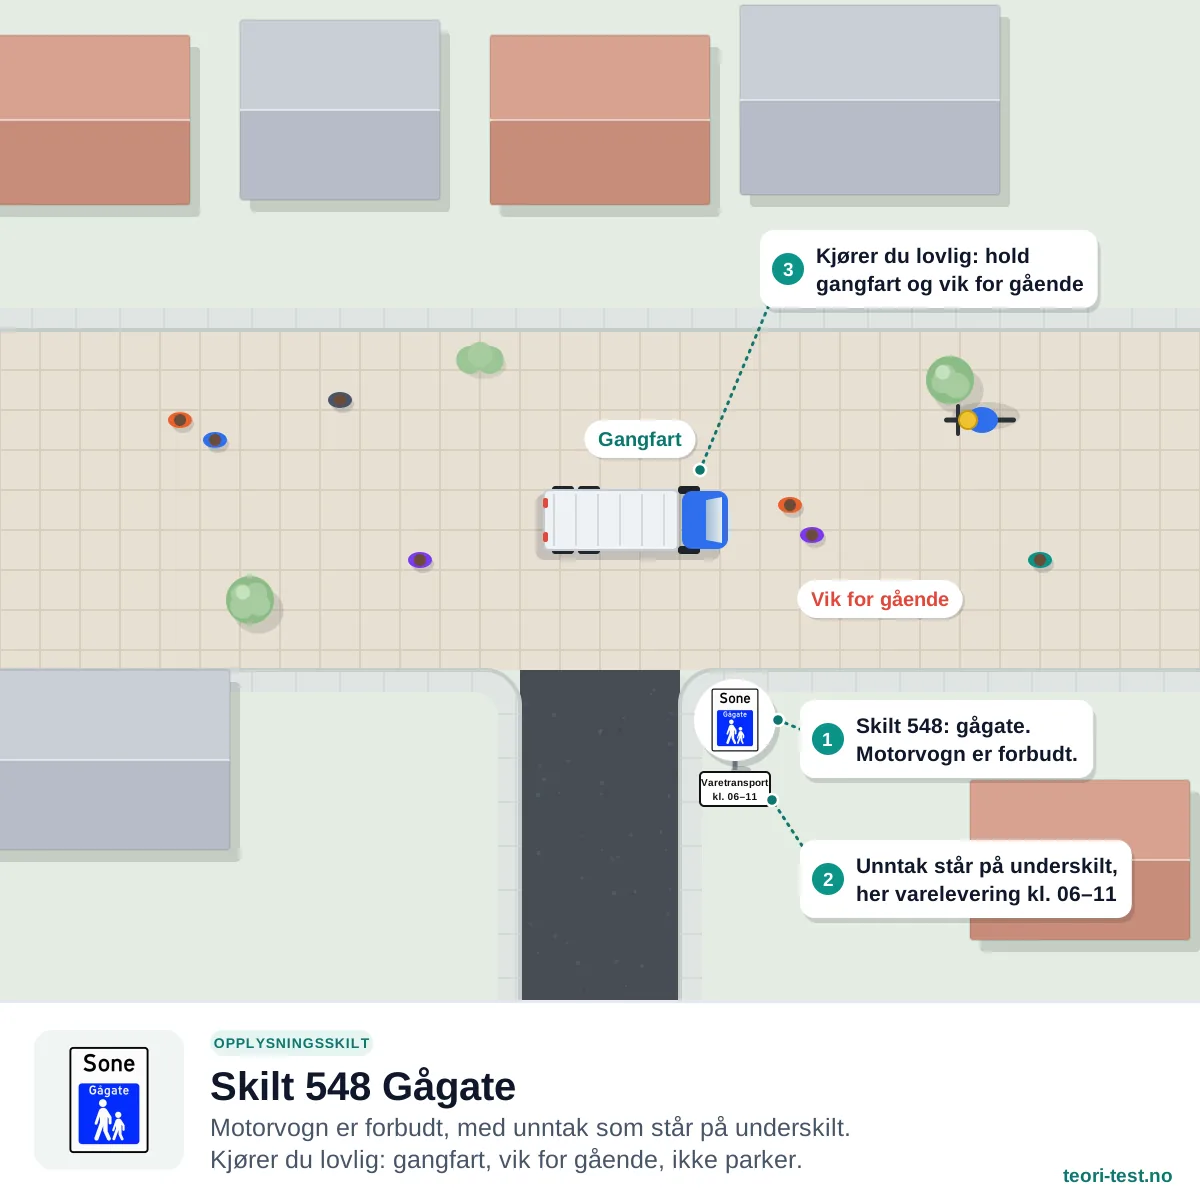
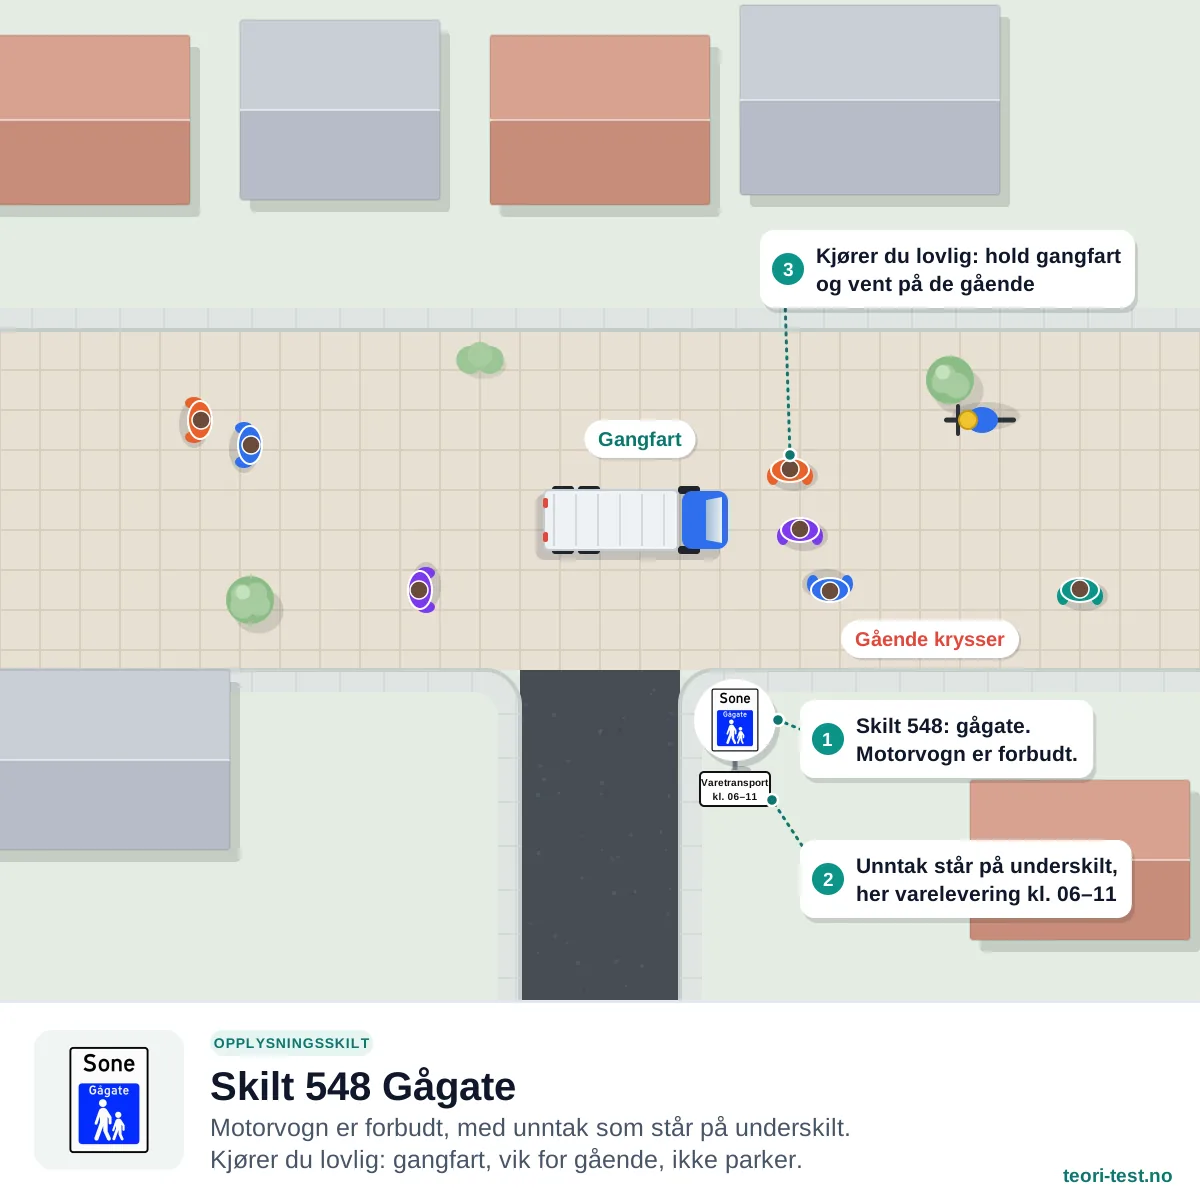
content: tydeligere gående i situasjonsbildet for skilt 548
Claude-Session: https://claude.ai/code/session_0164FqxZGKUYMbhApiH1mDb4

diff --git a/src/data/trafficSignGuides.ts b/src/data/trafficSignGuides.ts
@@ -56,7 +56,7 @@ export const trafficSignGuides: Record<string, TrafficSignGuide> = {
     description: 'Skilt 548 Gågate betyr at det er forbudt å kjøre motorvogn i området. Unntak, for eksempel varelevering til bestemte tider, står på underskilt. Den som kjører lovlig, skal holde gangfart og vike for gående.',
     answer: 'Du kan ikke kjøre bil eller annen motorvogn inn i gågaten. Unntak står på underskilt, for eksempel varetransport mellom bestemte klokkeslett. Har du lov til å kjøre, skal du holde gangfart og vike for gående. Du kan ikke parkere i gågaten. Skiltet gjelder til skilt 550 Slutt på gågate.',
     scenario: 'En varebil kjører inn i gågaten for å levere varer om morgenen, som underskiltet tillater. Den holder gangfart og stanser når gående krysser foran.',
-    points: ['Skilt 548 viser at gågaten starter. Motorvogn er forbudt.', 'Underskiltet gir unntak, her varetransport kl. 06–11.', 'Varebilen holder gangfart og venter på de gående.'],
+    points: ['Skilt 548 viser at gågaten starter. Motorvogn er forbudt.', 'Underskiltet gir unntak, her varetransport kl. 06–11.', 'Varebilen holder gangfart og venter på de gående som krysser foran den.'],
     misconception: 'Gågate og gatetun blir ofte forvekslet. I et gatetun er kjøring tillatt i gangfart. I en gågate er kjøring med motorvogn forbudt, og bare unntak på underskilt gir lov til å kjøre.',
     steps: ['Kjør ikke inn med bil uten at et underskilt gir deg lov.', 'Les underskiltet: hvem som kan kjøre, og når.', 'Kjører du lovlig: hold gangfart og vik for gående.', 'Ikke parker. Lever eller hent, og kjør ut igjen.'],
     places: ['I sentrum av byer og tettsteder, i gater som er tilrettelagt for gående.', 'Ved innkjøringen til et område med flere gågater, der skiltet gjelder for hele området.'],
